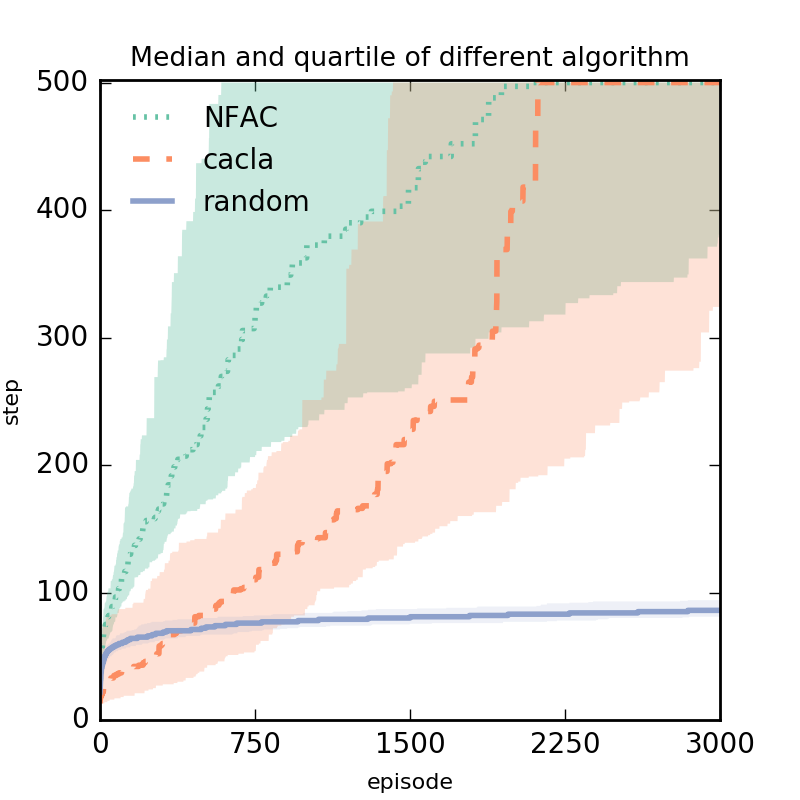
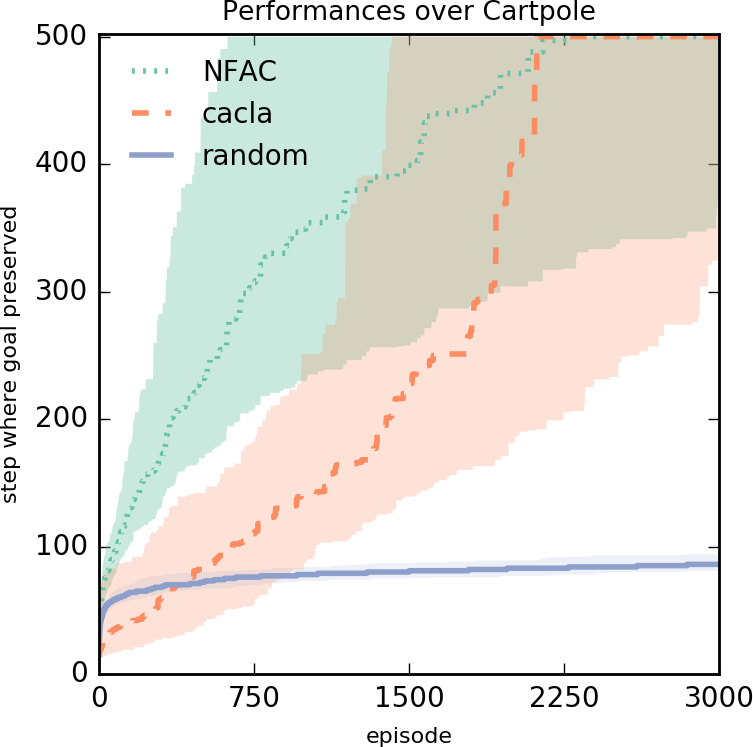
improvement of structures

diff --git a/esann2016/tex/exp.tex b/esann2016/tex/exp.tex
@@ -1,49 +1,36 @@
 
-\subsection{Acrobot}
-\mytodo{MZ}{describe env}
+NFAC and Cacla are going to be compared in two continuous environments : Acrobot and Cartpole.
+Acrobot (double swing-up) is an under actuated arm of two-link. The first joint
+cannot exert torque where the second can.
+It always begin in the same position (straight down).
+The reward function is defined as 1) +1 if the goal is reached, 2) normalized max 
+height of end effector if 500 step are reached, 3) 0 otherwise.
 
-% \begin{figure}[h]
-% 	\begin{center}
-% 		\includegraphics{result_plotting/adacrobot-1ddl.png}
-% 		\caption{..}
-% 		\label{image:adacrobot}
-% 	\end{center}
-% \end{figure}
+Cartpole or inverted pendulum is also made of 2 joints. The first joint is a pivot point 
+between the cart and the pole, where torques cannot be applied. The other joint controls
+the horizontal movement of the cart.
+The reward function is defined as +1 everywhere.
 
-\begin{figure}[h]
-	\begin{center}
-		\includegraphics{result_plotting/adacrobot-1ddl_perf.png}
-		\caption{Acrobot}
-		\label{image:adacrobot_perf}
-	\end{center}
-\end{figure}
-
-\begin{figure}[h]
-	\begin{center}
-		\includegraphics{result_plotting/cartpole_perf.png}
-		\caption{Cartpole}
-		\label{image:cartpole_perf}
-	\end{center}
-\end{figure}
+\begin{figure*}[h]
+\centering
+\begin{minipage}{.5\textwidth}
+  \centering
+  \includegraphics[width=0.95\linewidth]{result_plotting/adacrobot-1ddl_perf.png}
+\end{minipage}%
+\begin{minipage}{.5\textwidth}
+  \centering
+  \includegraphics[width=0.95\linewidth]{result_plotting/cartpole_perf.png}
+\end{minipage}
+\caption{ \label{fig:actions} Median and quartile of performance in Acrobot (lower better) and Cartpole (higher better) environment during RL learning.}
+\end{figure*}
 
 
-Median performance of cacla and NFAC are equivalent. However NFAC is more stable as the lower quartile reach the max performance
-at episode 150 where 300 is needed with cacla.
+In acrobot, 75\% of NFAC agents reach their goal after only 151 episodes where cacla agents need 544 episodes. The median shows that the quality
+of the policies found by NFAC are better. After 1000 episodes, 75 \% of NFAC agents can reach the goal after only 313 steps versus 453 steps for cacla.
 
-Statistics have been made over 150 different runs after meta-parameters optimization for each algorithms.
+In cartpole, 25\% of NFAC agents can preserve the goal during 500 steps after 623 episodes versus 1419 episodes for cacla. The median of NFAC is better 
+than cacla during the first episodes then converge after 2200 episodes.
 
-\DRAFT{
-\begin{itemize}
- \item Acrobot 1DDL
- \begin{itemize}
-  \item Cacla
-  \item NFAC
- \end{itemize}
- 
- \item Cartpole
-  \begin{itemize}
-  \item Cacla
-  \item NFAC
- \end{itemize}
-\end{itemize}
-}
+Statistics have been made over 150 different runs after meta-parameters optimization for each algorithms
+(the number of hidden units for the policy is the same).
+For acrobot $\epsilon$-greedy policies are used, instead with cartpole gaussian policies are used.

diff --git a/esann2016/main.tex b/esann2016/main.tex
@@ -152,20 +152,13 @@ $\backslash$mytodo
 \input{tex/exp.tex}
 
 \section{Conclusions and further work}
-\DRAFT{
-\sout{We} present an algorithm that doesn't require a lot of parameters.
-Use the data previously collected via importance sampling.
-\sout{Our} advantages over cacla is the performance and the lower number of parameters.
-}
+An algorithm that works in both continuous state and actions spaces, 
+with non-linear model have been presented.
+The advantages over cacla is not only the performance but the lower 
+number of meta-parameters to optimize (2 learning rate removed).
+To further improve NFAC, the data previously collected in old episodes must be re-used, for instance with via importance sampling.
+This is also a first step towards deep reinforcement learning with continuous action space.
 
-\DRAFT{
-\begin{itemize}
- \item \cite{Antos2008} provides an extension for continuous actions space.
- \item This is also a first step towards deep reinforcement learning with continuous action space.
-\end{itemize}
-
-
-}
 
 % ****************************************************************************
 % BIBLIOGRAPHY AREA

diff --git a/esann2016/plotting/plot_perf_cartpole.py b/esann2016/plotting/plot_perf_cartpole.py
@@ -55,7 +55,8 @@ med_cma, perc_25_cma, perc_75_cma = perc(data_cma)
 fig = figure() # no frame
 ax = fig.add_subplot(111)
 
-ax.set_title('Median and quartile of different algorithm')
+#ax.set_title('Median and quartile of different algorithm')
+ax.set_title('Performances over Cartpole')
 
 # now all plot function should be applied to ax
 ax.fill_between((lx), perc_25_rand[x], perc_75_rand[x], alpha=0.35, linewidth=0, color=colors[0]) 
@@ -98,7 +99,7 @@ frame.set_edgecolor('1.0')
 ax.set_axisbelow(True)
 
 ax.set_xlabel("episode")
-ax.set_ylabel("step")
+ax.set_ylabel("step where goal preserved")
 
 fig.savefig('../result_plotting/cartpole_perf.png', dpi=200)
 

diff --git a/esann2016/plotting/plot_perf_acrobot.py b/esann2016/plotting/plot_perf_acrobot.py
@@ -55,7 +55,8 @@ med_cma, perc_25_cma, perc_75_cma = perc(data_cma)
 fig = figure() # no frame
 ax = fig.add_subplot(111)
 
-ax.set_title('Median and quartile of different algorithm')
+#ax.set_title('Median and quartile of different algorithm')
+ax.set_title('Performances over Acrobot')
 
 # now all plot function should be applied to ax
 ax.fill_between((lx), perc_25_rand[x], perc_75_rand[x], alpha=0.35, linewidth=0, color=colors[0]) 
@@ -96,7 +97,7 @@ frame.set_edgecolor('1.0')
 ax.set_axisbelow(True)
 
 ax.set_xlabel("episode")
-ax.set_ylabel("step")
+ax.set_ylabel("step to reach goal")
 
 fig.savefig('../result_plotting/adacrobot-1ddl_perf.png', dpi=200)
 
